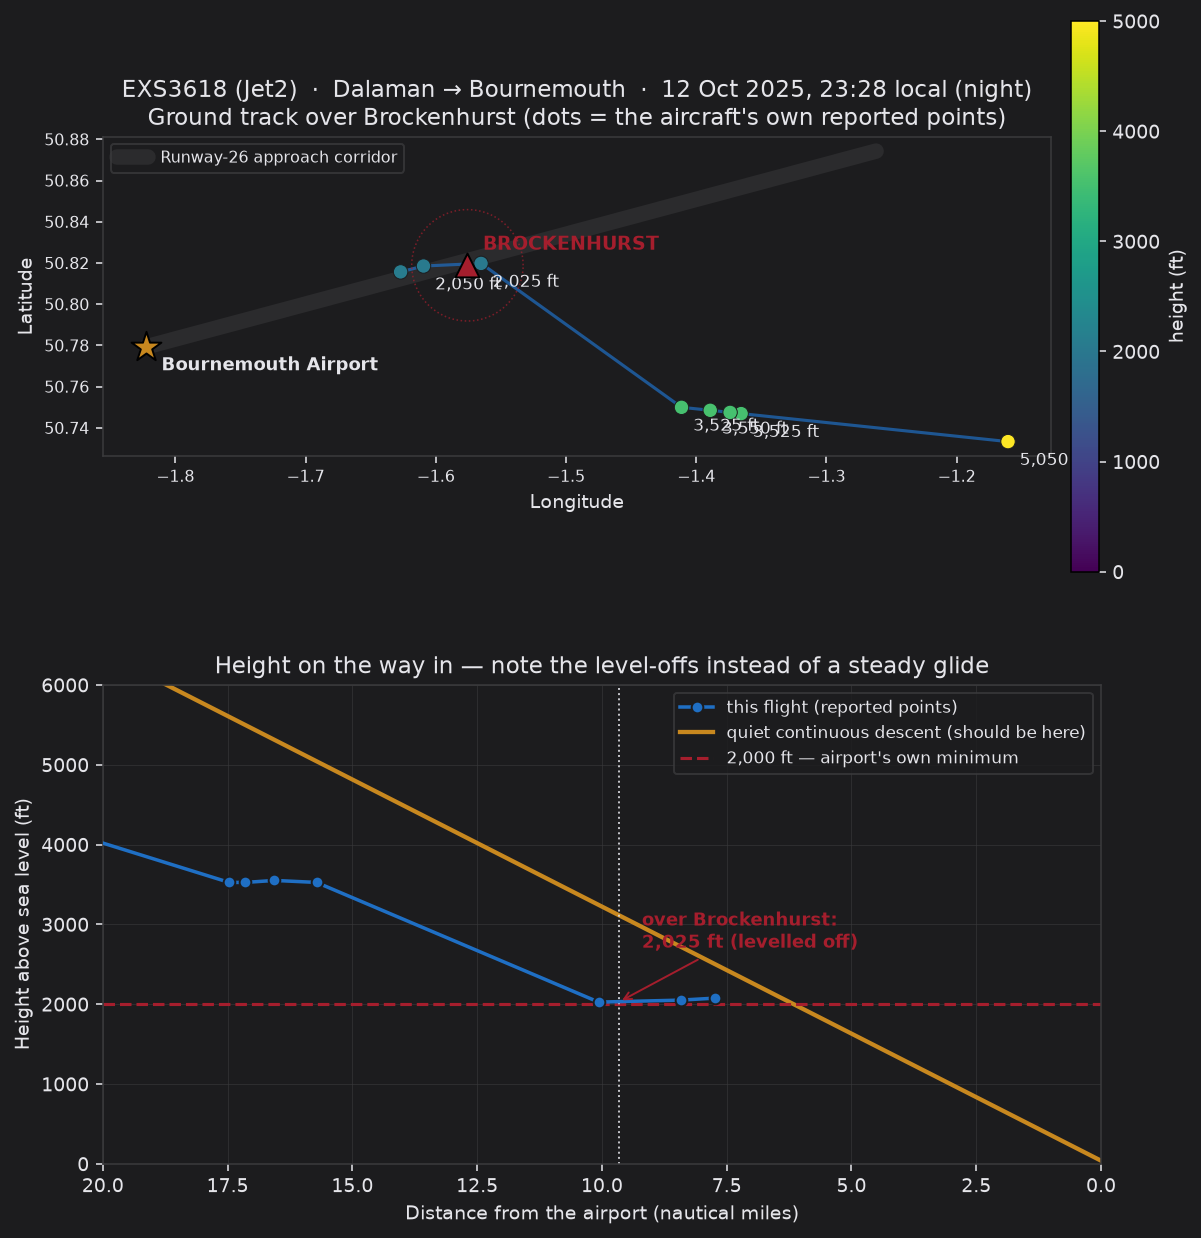
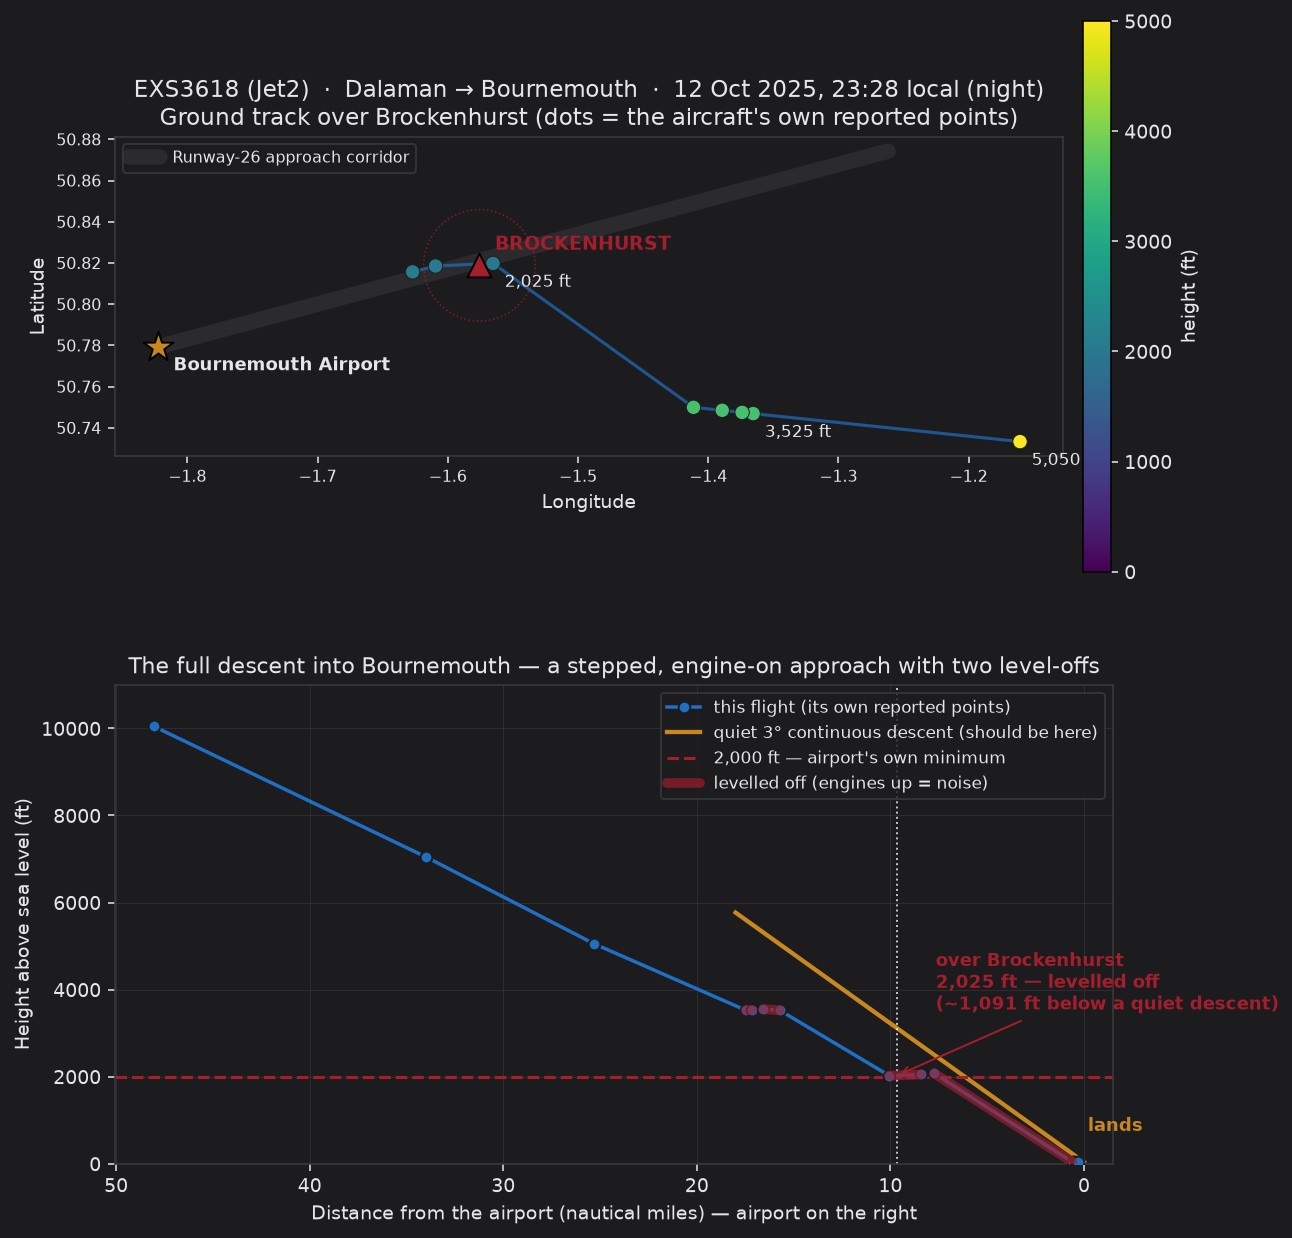
Case study: show full descent into Bournemouth (top of descent to touchdown)
Altitude profile now runs from ~10,050 ft at 48 NM down to landing, with the two
level-off segments highlighted and the gap below a quiet 3-degree descent marked.
Includes the near-runway touchdown points (clipped at field elevation) and widens
the ground-track panel to show the run-in. Case-pack PDF left unchanged.

Claude-Session: https://claude.ai/code/session_01Wg3RMXhKJQE1Gdum3a4bvr

diff --git a/case_study.py b/case_study.py
@@ -40,8 +40,8 @@ def load_track(flight_id: int) -> pd.DataFrame:
 
 def figure(track: pd.DataFrame, callsign: str, when_local: str, origin: str,
            gate_ft: float, out: str):
-    # Approach portion only: descending, within 26 NM, sensible altitudes.
-    ap = track[(track["dist_thr_nm"] <= 26) & (track["altitude"].between(0, 6000))].copy()
+    # Approach portion for the map: within 34 NM, sensible altitudes.
+    ap = track[(track["dist_thr_nm"] <= 34) & (track["altitude"].between(0, 8000))].copy()
     ap = ap.sort_values("dist_thr_nm", ascending=False)
 
     fig = plt.figure(figsize=(9.2, 10.6), facecolor=BG)
@@ -67,7 +67,7 @@ def figure(track: pd.DataFrame, callsign: str, when_local: str, origin: str,
     # near-duplicate points in each level segment don't overprint.
     last = None
     for _, r in ap.iterrows():
-        if last is not None and geo.haversine_km(r["latitude"], r["longitude"], *last) < 1.5:
+        if last is not None and geo.haversine_km(r["latitude"], r["longitude"], *last) < 4.5:
             continue
         ax.annotate(f"{r['altitude']:,.0f} ft", (r["longitude"], r["latitude"]),
                     textcoords="offset points", xytext=(6, -12), color=FG, fontsize=8.5)
@@ -98,29 +98,53 @@ def figure(track: pd.DataFrame, callsign: str, when_local: str, origin: str,
     cb.set_label("height (ft)", color=FG); cb.ax.yaxis.set_tick_params(color=FG)
     plt.setp(cb.ax.get_yticklabels(), color=FG)
 
-    # ---- Panel 2: altitude profile ----
+    # ---- Panel 2: FULL descent profile, top of descent to touchdown ----
+    # include the near-runway touchdown points (their barometric altitude dips
+    # slightly negative) so the profile runs all the way to landing; clip at 0 ft.
+    prof = track[(track["altitude"].between(-600, 11000)) & (track["dist_thr_nm"] <= 55)].copy()
+    prof = prof.sort_values("dist_thr_nm", ascending=False)
+    prof["altitude"] = prof["altitude"].clip(lower=config.EGHH_ELEV_FT)
+    top = prof.iloc[0]
     ax2 = fig.add_subplot(gs[1]); ax2.set_facecolor(BG)
-    ax2.plot(ap["dist_thr_nm"], ap["altitude"], color=BLUE, lw=1.8, marker="o",
-             markersize=6, markeredgecolor=BG, zorder=3, label="this flight (reported points)")
-    x = np.linspace(0, 20, 100)
+    ax2.plot(prof["dist_thr_nm"], prof["altitude"], color=BLUE, lw=1.8, marker="o",
+             markersize=6, markeredgecolor=BG, zorder=3, label="this flight (its own reported points)")
+    # the quiet 3-degree descent, drawn where it is the relevant benchmark (last ~18 NM)
+    x = np.linspace(0, 18, 100)
     ax2.plot(x, geo.glideslope_altitude_ft(x), color=GOLD, lw=2.2,
-             label="quiet continuous descent (should be here)")
+             label="quiet 3° continuous descent (should be here)")
     ax2.axhline(config.HARD_FLOOR_FT, color=RED, lw=1.6, ls="--",
                 label=f"{config.HARD_FLOOR_FT:,} ft — airport's own minimum")
+    # highlight the level-off segments (level-start -> level-end pairs)
+    seg_start = None
+    labelled = False
+    for _, r in prof.iterrows():
+        if r["type"] == "level-start":
+            seg_start = r
+        elif r["type"] == "level-end" and seg_start is not None:
+            ax2.plot([seg_start["dist_thr_nm"], r["dist_thr_nm"]],
+                     [seg_start["altitude"], r["altitude"]], color=RED, lw=5,
+                     alpha=0.65, solid_capstyle="round", zorder=4,
+                     label="levelled off (engines up = noise)" if not labelled else None)
+            labelled = True
+            seg_start = None
     d_brock = geo.dist_from_threshold_nm(*config.BROCKENHURST)
+    quiet_here = geo.glideslope_altitude_ft(d_brock)
     ax2.axvline(d_brock, color=FG, lw=1, ls=":", alpha=0.85)
-    ax2.annotate(f"over Brockenhurst:\n{gate_ft:,.0f} ft (levelled off)",
-                 (d_brock, gate_ft), textcoords="offset points", xytext=(12, 28),
-                 color=RED, fontsize=9.5, fontweight="bold",
+    ax2.annotate(f"over Brockenhurst\n{gate_ft:,.0f} ft — levelled off\n"
+                 f"(~{quiet_here - gate_ft:,.0f} ft below a quiet descent)",
+                 (d_brock, gate_ft), textcoords="offset points", xytext=(20, 34),
+                 color=RED, fontsize=9, fontweight="bold",
                  arrowprops=dict(arrowstyle="->", color=RED))
+    ax2.annotate("lands", (0, config.EGHH_ELEV_FT), textcoords="offset points",
+                 xytext=(2, 16), color=GOLD, fontsize=9, fontweight="bold")
     for s in ax2.spines.values():
         s.set_color(GRID)
     ax2.tick_params(colors=FG); ax2.grid(True, color=GRID, lw=0.5, alpha=0.6)
-    ax2.set_xlim(20, 0); ax2.set_ylim(0, 6000)
-    ax2.set_xlabel("Distance from the airport (nautical miles)", color=FG)
+    ax2.set_xlim(max(50, top["dist_thr_nm"] + 2), -1.5); ax2.set_ylim(0, 11000)
+    ax2.set_xlabel("Distance from the airport (nautical miles) — airport on the right", color=FG)
     ax2.set_ylabel("Height above sea level (ft)", color=FG)
-    ax2.set_title("Height on the way in — note the level-offs instead of a steady glide",
-                  color=FG, fontsize=12)
+    ax2.set_title("The full descent into Bournemouth — a stepped, engine-on approach with two level-offs",
+                  color=FG, fontsize=11.5)
     ax2.legend(facecolor=BG, edgecolor=GRID, labelcolor=FG, fontsize=8.5, loc="upper right")
 
     fig.savefig(out, dpi=140, facecolor=BG, bbox_inches="tight")
